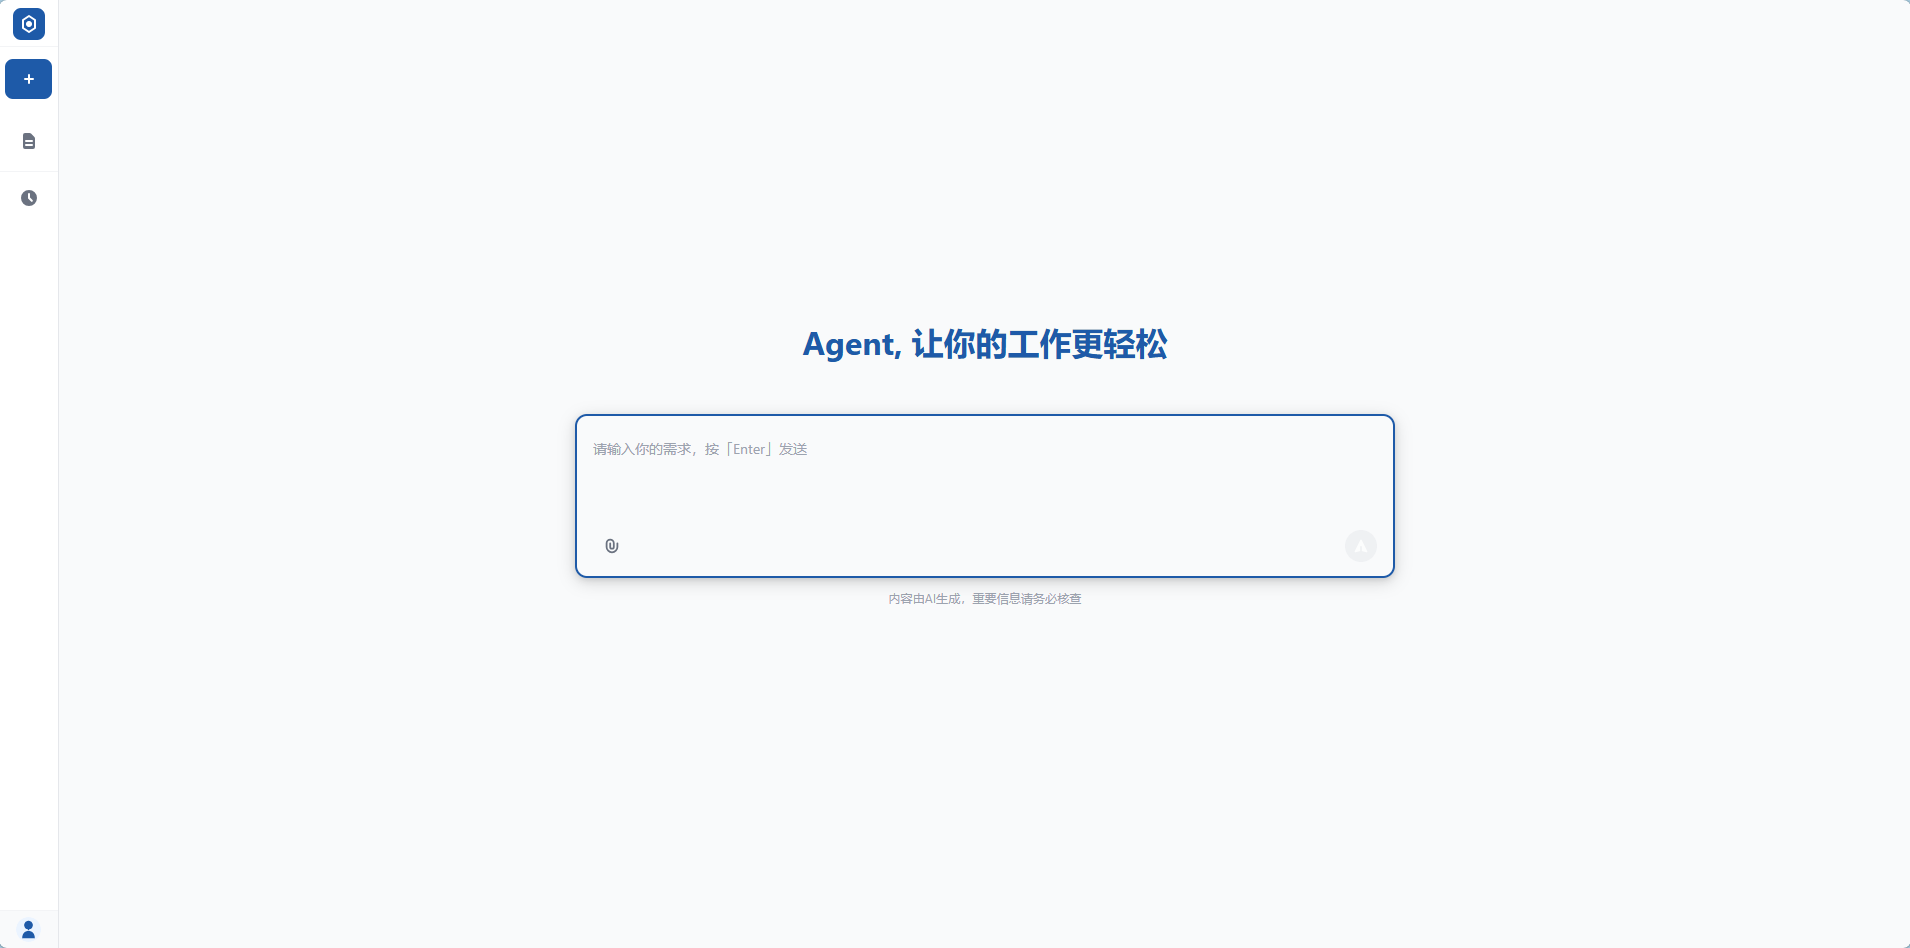
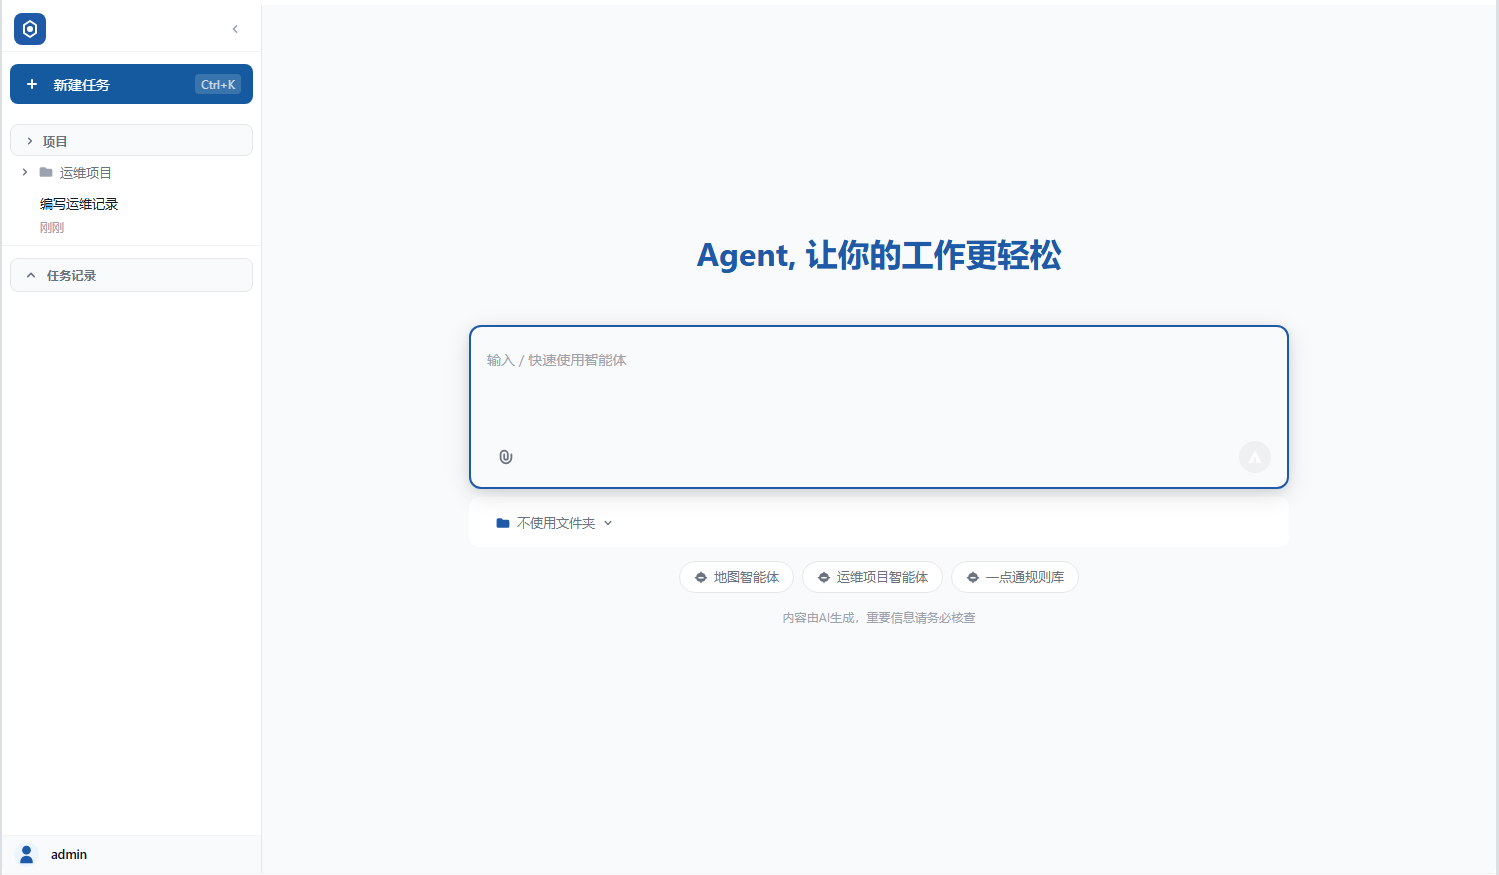
feat(web/agent): add sub-agent suggestion strip component and update welcome copy
1. 新增SubAgentSuggestionStrip子智能体快选条组件，支持按需过滤、点击选智能体
2. 在InputBox中集成该组件，仅在未锁定项目时展示
3. 更新首页欢迎文案为“让你的运维工作更轻松”
4. 补充项目文档和组件测试用例

diff --git a/web/Agent/src/components/SubAgentSuggestionStrip.vue b/web/Agent/src/components/SubAgentSuggestionStrip.vue
@@ -1,0 +1,122 @@
+<script setup>
+/**
+ * SubAgentSuggestionStrip 组件（2026-07-14 新增）
+ *
+ * 常驻展示当前用户可用的子智能体胶囊条。
+ * - 数据来自 props.agents（已由父组件按 allowedAgents 过滤）
+ * - 点击胶囊 → emit('select', agent)，由父组件负责切换 InputBox 智能体
+ * - 仅在 agents.length > 0 时显示，否则不渲染（v-if 控制）
+ *
+ * Props:
+ *   - agents: Array<{ name: string, display_name?: string, icon?: string }>
+ *             已按 allowedAgents 过滤后的智能体列表
+ *   - disabled: boolean 是否禁用所有胶囊交互（如 streaming 时）
+ *
+ * Emits:
+ *   - select(agent): 用户点击胶囊时触发，由父组件决定后续行为
+ */
+import { computed } from 'vue'
+
+const props = defineProps({
+  agents: {
+    type: Array,
+    default: () => []
+  },
+  disabled: {
+    type: Boolean,
+    default: false
+  }
+})
+
+const emit = defineEmits(['select'])
+
+/**
+ * 是否渲染胶囊条
+ * @returns {boolean} 仅当 agents 是非空数组时为 true
+ */
+const hasAgents = computed(() => Array.isArray(props.agents) && props.agents.length > 0)
+
+/**
+ * 处理胶囊点击
+ * @param {Object} agent - 被点击的智能体对象
+ * @returns {void}
+ */
+function handleClick(agent) {
+  if (props.disabled) return
+  emit('select', agent)
+}
+</script>
+
+<template>
+  <div v-if="hasAgents" class="sub-agent-strip">
+    <button
+      v-for="agent in agents"
+      :key="agent.name"
+      type="button"
+      class="sub-agent-chip"
+      :class="{ disabled }"
+      :disabled="disabled"
+      @click="handleClick(agent)"
+    >
+      <svg class="chip-icon" viewBox="0 0 20 20" fill="currentColor" aria-hidden="true">
+        <!-- 通用机器人图标 -->
+        <path d="M10 2a1 1 0 011 1v1.07A7.002 7.002 0 0116.93 10H18a1 1 0 110 2h-1.07A7.002 7.002 0 0111 16.93V18a1 1 0 11-2 0v-1.07A7.002 7.002 0 013.07 12H2a1 1 0 110-2h1.07A7.002 7.002 0 019 4.07V3a1 1 0 011-1zm-3 8a1 1 0 100 2h6a1 1 0 100-2H7z" />
+      </svg>
+      <span class="chip-label">{{ agent.display_name || agent.name }}</span>
+    </button>
+  </div>
+</template>
+
+<style scoped>
+.sub-agent-strip {
+  display: flex;
+  flex-wrap: wrap;
+  justify-content: center;
+  align-items: center;
+  gap: 8px;
+  margin-top: 10px;
+  padding: 4px 0;
+}
+
+.sub-agent-chip {
+  display: inline-flex;
+  align-items: center;
+  gap: 6px;
+  padding: 6px 14px;
+  background-color: var(--color-bg-primary);
+  border: 1px solid var(--color-border);
+  border-radius: 999px;
+  color: var(--color-text-secondary);
+  font-size: var(--font-size-sm);
+  font-weight: var(--font-weight-medium);
+  cursor: pointer;
+  transition: var(--transition-colors), var(--transition-transform);
+  font-family: inherit;
+}
+
+.sub-agent-chip:hover:not(.disabled) {
+  border-color: var(--color-accent);
+  color: var(--color-accent);
+  background-color: var(--color-accent-light);
+  transform: translateY(-1px);
+}
+
+.sub-agent-chip:active:not(.disabled) {
+  transform: translateY(0);
+}
+
+.sub-agent-chip.disabled {
+  opacity: var(--opacity-disabled);
+  cursor: not-allowed;
+}
+
+.chip-icon {
+  width: 14px;
+  height: 14px;
+  flex-shrink: 0;
+}
+
+.chip-label {
+  line-height: 1.4;
+}
+</style>

diff --git a/web/Agent/src/components/__tests__/SubAgentSuggestionStrip.spec.js b/web/Agent/src/components/__tests__/SubAgentSuggestionStrip.spec.js
@@ -1,0 +1,95 @@
+/**
+ * SubAgentSuggestionStrip 组件测试（2026-07-14 新增）
+ *
+ * 覆盖：
+ *   1. 组件可被导入（importable）
+ *   2. agents 非空时渲染对应胶囊条；空数组时不渲染
+ *   3. 点击胶囊 → emit('select', agent)
+ *   4. disabled=true 时按钮 disabled，点击不发 select
+ *   5. 使用 display_name 时优先显示 display_name，否则回退到 name
+ *
+ * 测试策略：mount + 直接断言 DOM 结构 / 事件 / 属性。
+ */
+import { describe, it, expect, beforeAll } from 'vitest'
+import { mount } from '@vue/test-utils'
+import SubAgentSuggestionStrip from '../SubAgentSuggestionStrip.vue'
+
+beforeAll(() => {
+  // happy-dom 不提供 alert()，避免无关告警
+  if (typeof window !== 'undefined' && !window.alert) {
+    window.alert = () => {}
+  }
+})
+
+const SAMPLE_AGENTS = [
+  { name: 'project', display_name: '项目智能体' },
+  { name: 'contract_doc', display_name: '合同文档' },
+  { name: 'map' } // 仅 name，无 display_name
+]
+
+describe('SubAgentSuggestionStrip 子智能体快选条（2026-07-14 新增）', () => {
+  it('test_sub_agent_strip_importable 组件可被 import', () => {
+    expect(SubAgentSuggestionStrip).toBeDefined()
+  })
+
+  it('test_sub_agent_strip_renders_only_when_agents_non_empty 仅当 agents 非空时渲染胶囊条', () => {
+    // 空数组 → 不渲染
+    const wrapperEmpty = mount(SubAgentSuggestionStrip, {
+      props: { agents: [] }
+    })
+    expect(wrapperEmpty.find('.sub-agent-strip').exists()).toBe(false)
+
+    // 非空 → 渲染对应数量的胶囊
+    const wrapperFilled = mount(SubAgentSuggestionStrip, {
+      props: { agents: SAMPLE_AGENTS }
+    })
+    const chips = wrapperFilled.findAll('.sub-agent-chip')
+    expect(chips).toHaveLength(SAMPLE_AGENTS.length)
+  })
+
+  it('test_sub_agent_strip_emits_select_on_click 点击胶囊触发 select 事件，载荷为被点击的 agent', async () => {
+    const wrapper = mount(SubAgentSuggestionStrip, {
+      props: { agents: SAMPLE_AGENTS }
+    })
+    const chips = wrapper.findAll('.sub-agent-chip')
+    expect(chips).toHaveLength(SAMPLE_AGENTS.length)
+
+    // 点击第 2 个胶囊（contract_doc）
+    await chips[1].trigger('click')
+
+    const emitted = wrapper.emitted('select')
+    expect(emitted).toBeTruthy()
+    expect(emitted).toHaveLength(1)
+    // 载荷必须是原 agent 对象
+    expect(emitted[0][0]).toEqual({ name: 'contract_doc', display_name: '合同文档' })
+  })
+
+  it('test_sub_agent_strip_respects_disabled disabled=true 时按钮 disabled 且点击不发 select', async () => {
+    const wrapper = mount(SubAgentSuggestionStrip, {
+      props: {
+        agents: SAMPLE_AGENTS,
+        disabled: true
+      }
+    })
+    const chips = wrapper.findAll('.sub-agent-chip')
+    // 全部按钮应带 disabled 属性 + .disabled class
+    chips.forEach((chip) => {
+      expect(chip.attributes('disabled')).toBeDefined()
+      expect(chip.classes()).toContain('disabled')
+    })
+
+    // 点击不应触发 emit（因为 handleClick 在 props.disabled 时短路 return）
+    await chips[0].trigger('click')
+    expect(wrapper.emitted('select')).toBeFalsy()
+  })
+
+  it('test_sub_agent_strip_prefers_display_name 文本展示优先用 display_name 否则回退到 name', () => {
+    const wrapper = mount(SubAgentSuggestionStrip, {
+      props: { agents: SAMPLE_AGENTS }
+    })
+    const labels = wrapper.findAll('.chip-label').map((node) => node.text())
+    expect(labels[0]).toBe('项目智能体')
+    expect(labels[1]).toBe('合同文档')
+    expect(labels[2]).toBe('map') // 回退
+  })
+})

diff --git a/web/Agent/src/components/InputBox.vue b/web/Agent/src/components/InputBox.vue
@@ -2,6 +2,8 @@
 import { ref, computed, nextTick, onMounted } from 'vue'
 import { uploadFileInChunks, formatFileSize, getFileExtension, refreshToken, fetchAgentList, deleteAttachments, fetchUploadConfig } from '../utils/api.js'
 import ProjectDropdown from './ProjectDropdown.vue'
+// 2026-07-14 新增：子智能体快选条组件（常驻在 InputBox 下方）
+import SubAgentSuggestionStrip from './SubAgentSuggestionStrip.vue'
 import { handleCommand, COMMAND_REGISTRY } from '../utils/commandRegistry.js'
 
 const SUPPORTED_EXTENSIONS = ['pdf', 'doc', 'docx', 'txt', 'md', 'csv', 'json']
@@ -193,6 +195,17 @@ const filteredAgents = computed(() => {
       a.name.toLowerCase().includes(query) ||
       (a.display_name && a.display_name.toLowerCase().includes(query))
   )
+})
+
+// 2026-07-14 新增：常驻子智能体快选条所需的智能体列表。
+// 与 filteredAgents 不同，它不依赖 trim 后的输入字符，
+// 仅受 allowedAgents 与 agentList 加载状态约束。
+// 父组件 ProjectDropdown 同级，在 !projectLocked 时挂载 SubAgentSuggestionStrip 消费。
+const suggestionAgents = computed(() => {
+  const allowedList = props.allowedAgents || []
+  if (!allowedList.length) return []
+  const allowedSet = new Set(allowedList)
+  return agentList.value.filter((a) => allowedSet.has(a.name))
 })
 
 const handleInput = (event) => {
@@ -836,6 +849,16 @@ const emit = defineEmits([
           @pick-existing="$emit('pick-existing')"
         />
       </div>
+
+      <!-- 2026-07-14 新增：常驻子智能体快选条。
+           仅在 !projectLocked（未发送 / 非历史会话 / 未选待上传文件）时显示。
+           选中胶囊 → 复用现有 selectAgent() 路径，把智能体以 /xx 形式注入 InputBox。 -->
+      <SubAgentSuggestionStrip
+        v-if="!projectLocked"
+        :agents="suggestionAgents"
+        :disabled="isStreaming"
+        @select="selectAgent"
+      />
     </div>
 
     <p class="disclaimer">内容由AI生成，重要信息请务必核查</p>

diff --git a/web/Agent/src/App.vue b/web/Agent/src/App.vue
@@ -1367,7 +1367,7 @@ async function handleSessionSwitch(targetSessionId) {
         @open-session-file-drawer="handleOpenSessionFileDrawer"
       />
 
-      <div v-if="isEmptyState" class="welcome-title">Agent, 让你的工作更轻松</div>
+      <div v-if="isEmptyState" class="welcome-title">Agent, 让你的运维工作更轻松</div>
 
       <!-- 2026-06-15 新增：动态排队提示横幅，挂在 ChatArea 与 HumanApprovalBox/InputBox 之间 -->
       <div class="queue-banner-wrapper">

diff --git a/project_memory.md b/project_memory.md
@@ -952,6 +952,7 @@ return data/upload/yyyy/mm/dd/{session_id}/
 | 组件 | 职责 |
 |------|------|
 | `ProjectDropdown.vue` | 紧挨着 InputBox 上方的下拉框（顶部只读预览 + 3 个动作 + 锁定支持） |
+| `SubAgentSuggestionStrip.vue` | InputBox 项目卡下方常驻子智能体胶囊条（2026-07-14 新增）；按 `allowedAgents` 过滤 + 居中展示；点击胶囊 → `emit('select', agent)` 复用 `InputBox.selectAgent` |
 | `ProjectDialog.vue` | 双模式弹窗（create / pick）；create 模式点击保存后 emit `created`，弹窗关闭由父组件控制 |
 | `App.vue` | `currentProject` 状态机 + handleSessionSwitch 恢复 + newSession 纯前端重置（2026-07-XX 改造）+ `canEditProject` 锁定判定 + `ensureSessionForFirstOp` 按需建 session + `handleProjectCreate` 成功后关闭弹窗并刷新按钮文案 |
 